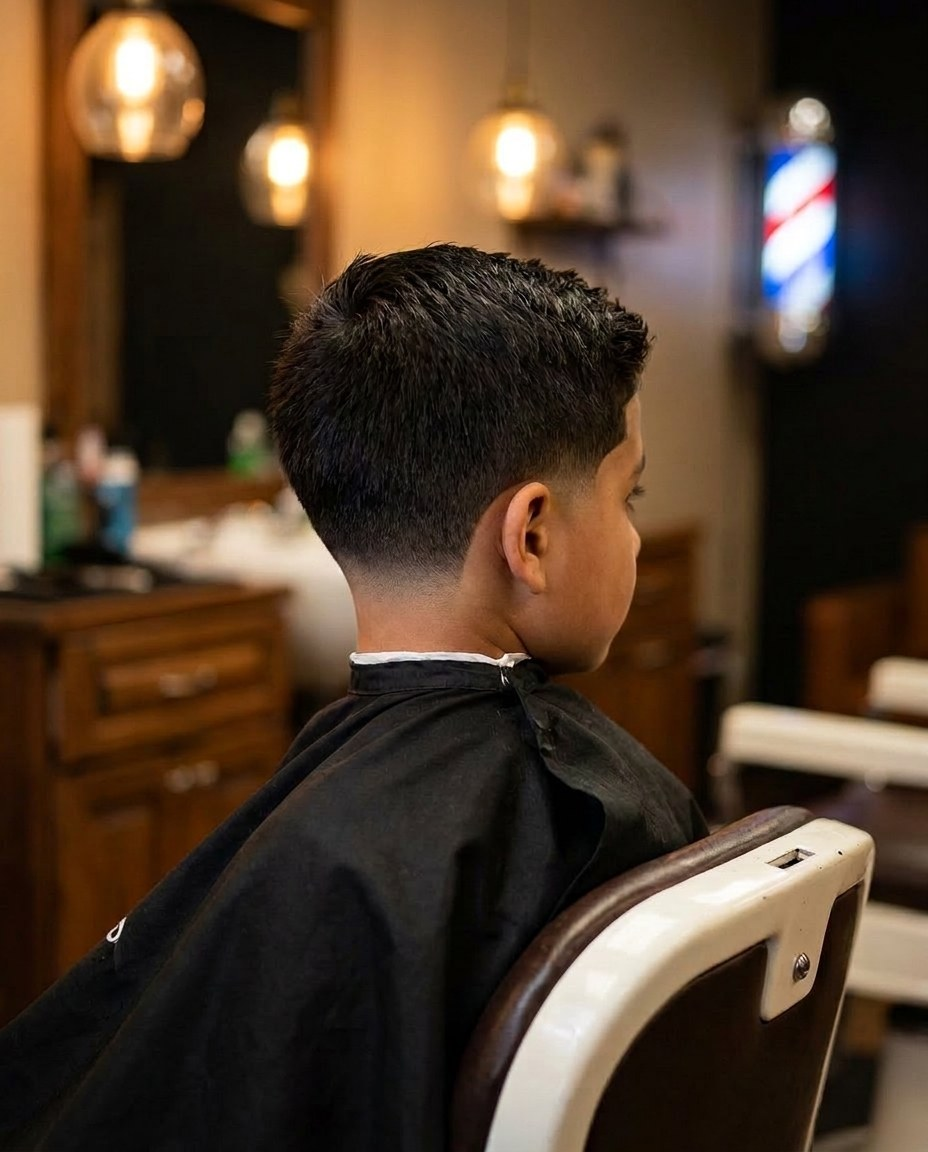
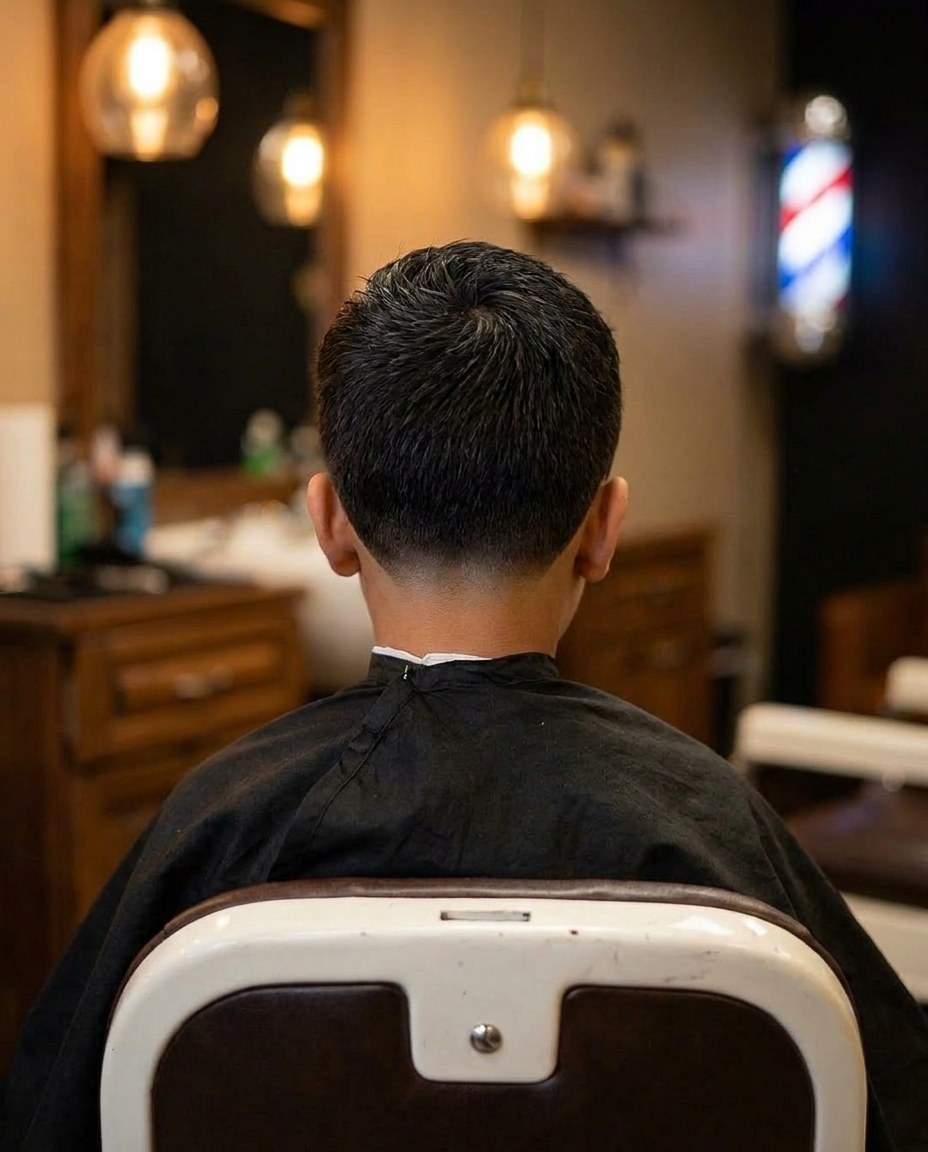
fix(bts): Low Taper photo — head now square over the shoulders
Previous pass corrected the neck but left the head rotated far enough that it
read as the boy craning to look behind himself. Regenerated with the head
facing the same direction as the shoulders — a straight back-of-head view, no
neck twist at all, which also shows the taper across the whole nape.

Scene, cape, chair, lighting and grade unchanged. 928x1152; brightness 70.5,
contrast 64.2, saturation 127 all inside the other cut cards' range. ?v=3.

diff --git a/back-to-school.html b/back-to-school.html
@@ -111,7 +111,7 @@ src="https://www.facebook.com/tr?id=1699302127751630&ev=PageView&noscript=1"
         <span class="cut-name" data-i18n="cuts.c2">Freestyle Design</span>
       </button>
       <button class="cut-card" type="button">
-        <img src="img/bts/cut_taper.jpg?v=2" alt="Low taper on a young student" loading="lazy"/>
+        <img src="img/bts/cut_taper.jpg?v=3" alt="Low taper on a young student" loading="lazy"/>
         <span class="cut-name" data-i18n="cuts.c3">Low Taper</span>
       </button>
       <button class="cut-card" type="button">
